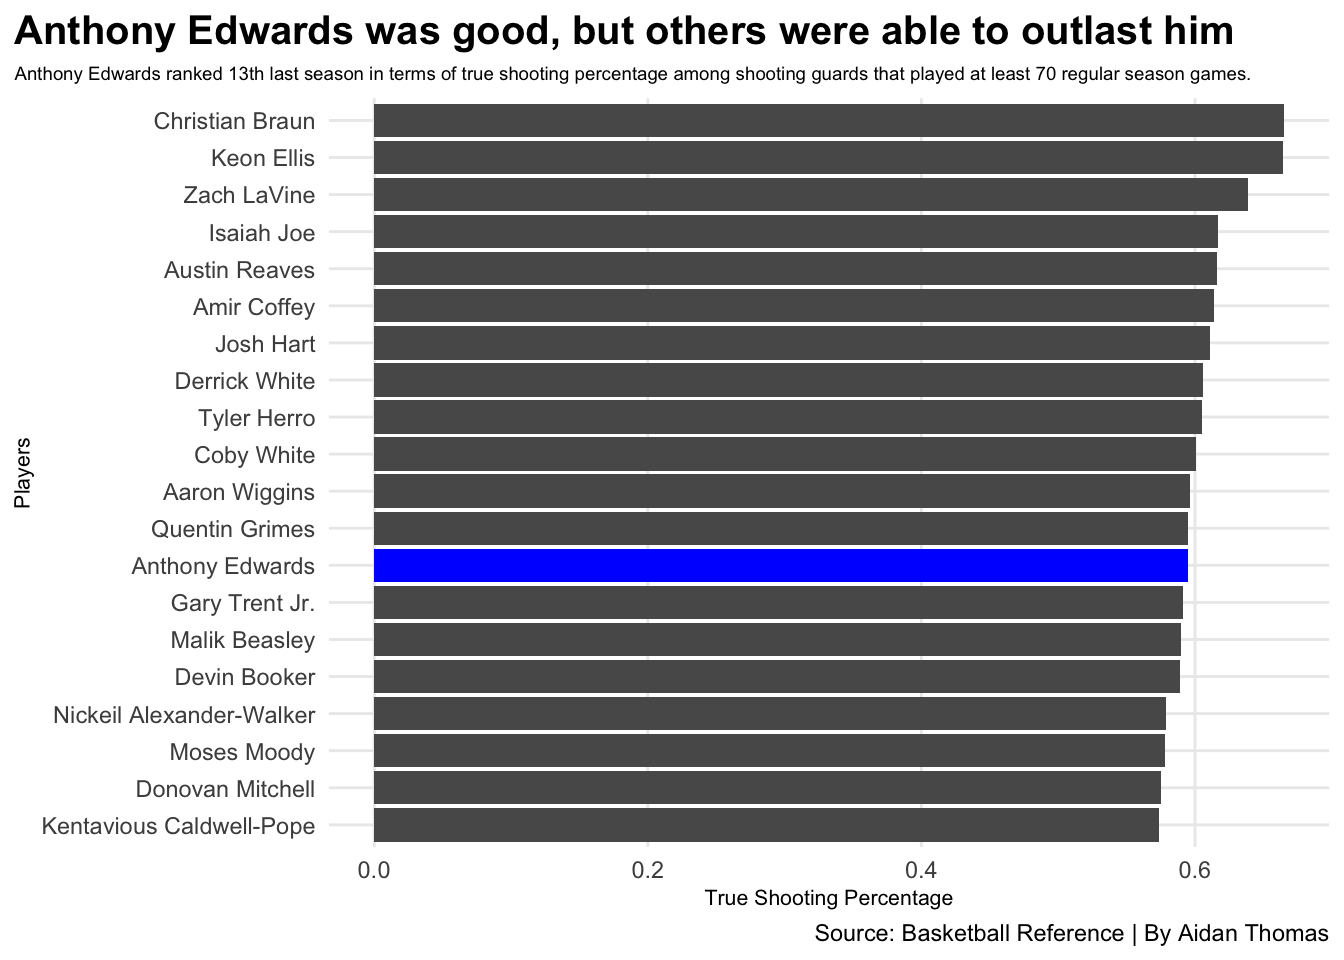
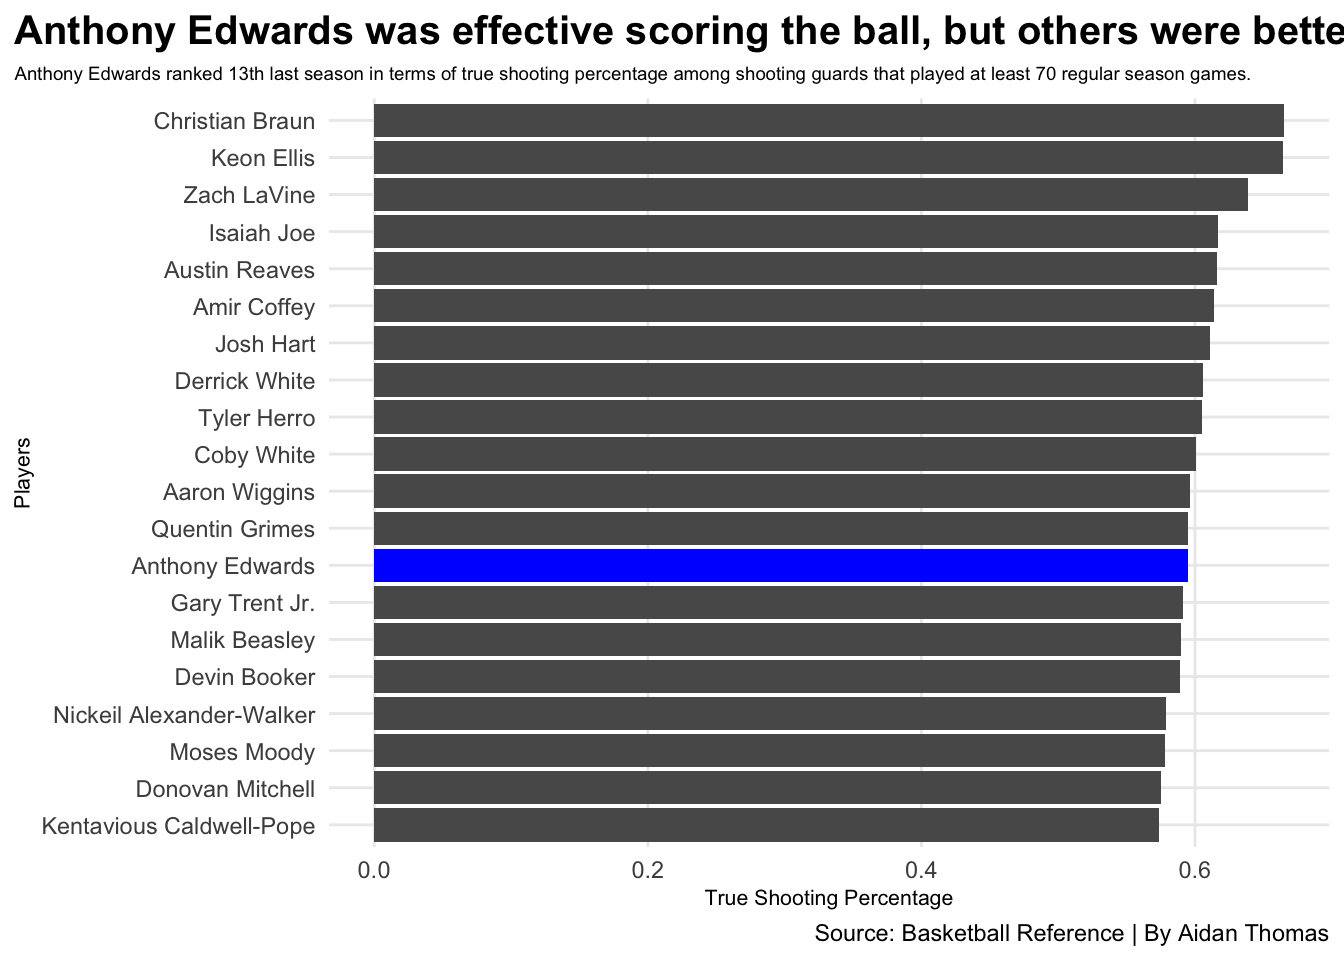
edits

Changed region(s): [[0.3438, 0.0, 1.0, 0.0625]]

diff --git a/posts/is-anthony-edwards-a-good-shooter/index.html b/posts/is-anthony-edwards-a-good-shooter/index.html
@@ -197,7 +197,7 @@ pre > code.sourceCode > span > a:first-child::before { text-decoration: underlin
 
 
 
-<p>Anthony Edwards has emerged as one of the NBA’s most electrifying young stars, captivating audiences with his explosive athleticism and fearless shot-making. But beneath the highlight-reel dunks and clutch performances lies a question that deserves closer examination: Is his shooting actually as elite as the narrative suggests?</p>
+<p>Anthony Edwards has emerged as one of the NBA’s most electrifying young stars, captivating audiences with his explosive athleticism and fearless shot making. But beneath the highlight reel dunks and clutch performances lies a question that deserves closer examination: Is his shooting actually as elite as the narrative suggests?</p>
 <div class="cell">
 <details class="code-fold">
 <summary>Code</summary>
@@ -224,7 +224,7 @@ pre > code.sourceCode > span > a:first-child::before { text-decoration: underlin
 <span id="cb1-21"><a href="#cb1-21" aria-hidden="true" tabindex="-1"></a>  <span class="fu">labs</span>(</span>
 <span id="cb1-22"><a href="#cb1-22" aria-hidden="true" tabindex="-1"></a>    <span class="at">x=</span><span class="st">"Players"</span>, </span>
 <span id="cb1-23"><a href="#cb1-23" aria-hidden="true" tabindex="-1"></a>    <span class="at">y=</span><span class="st">"True Shooting Percentage"</span>, </span>
-<span id="cb1-24"><a href="#cb1-24" aria-hidden="true" tabindex="-1"></a>    <span class="at">title=</span><span class="st">"Anthony Edwards was good, but others were able to outlast him"</span>, </span>
+<span id="cb1-24"><a href="#cb1-24" aria-hidden="true" tabindex="-1"></a>    <span class="at">title=</span><span class="st">"Anthony Edwards was effective scoring the ball, but others were better"</span>, </span>
 <span id="cb1-25"><a href="#cb1-25" aria-hidden="true" tabindex="-1"></a>    <span class="at">subtitle=</span><span class="st">"Anthony Edwards ranked 13th last season in terms of true shooting percentage among shooting guards that played at least 70 regular season games."</span>, </span>
 <span id="cb1-26"><a href="#cb1-26" aria-hidden="true" tabindex="-1"></a>    <span class="at">caption=</span><span class="st">"Source: Basketball Reference | By Aidan Thomas"</span></span>
 <span id="cb1-27"><a href="#cb1-27" aria-hidden="true" tabindex="-1"></a>    ) <span class="sc">+</span></span>
@@ -245,9 +245,9 @@ pre > code.sourceCode > span > a:first-child::before { text-decoration: underlin
 </div>
 </div>
 </div>
-<p>When we compare Edwards’ true shooting percentage to other elite young scorers in similar roles, a surprising pattern emerges. Despite carrying comparable offensive loads, Edwards ranked surprisingly low last season (13th out of the top 20 shooting guards in terms of true shooting percentage).</p>
-<p>What makes this gap particularly noteworthy is that Edwards often takes similarly difficult shots compared to his counterparts on this list. He creates off the dribble, attacks closeouts, and launches deep threes with defenders draped on him. The problem isn’t shot difficulty, it’s conversion rate. While players like Zach Lavine and Tyler Herro have refined their games to balance volume with accuracy, Edwards hasn’t yet found that equilibrium. He’s certainly a good scorer, but the numbers suggest he’s not yet operating at the truly elite efficiency level we might assume from watching his highlights.</p>
-<p>Perhaps the most telling story comes from tracking Edwards’ development over his career. Has he been steadily improving his efficiency, or has his reputation as a “superstar shooter” been built primarily on increased volume rather than refined accuracy?</p>
+<p>When we compare Edwards’ true shooting percentage (a basketball statistic that measures scoring efficiency by accounting for two-point field goals, three-point field goals, and free throws), to other shooting guards in similar roles, a surprising pattern emerges. Despite carrying comparable offensive loads, Edwards ranked surprisingly low last season (13th out of the top 20 shooting guards in terms of true shooting percentage).</p>
+<p>What makes this gap particularly noteworthy is that Edwards often takes similarly difficult shots compared to his counterparts on this list. He creates off the dribble, attacks the basket, and launches deep threes with defenders draped on him. The problem isn’t shot difficulty, it’s conversion rate. He’s certainly a good scorer, but the numbers suggest he’s not yet operating at the truly elite efficiency level we might assume from watching his game.</p>
+<p>Perhaps the most telling story comes from tracking Edwards’ development over his career. Has he been steadily improving his efficiency, or has his reputation as a “superstar” been built primarily on increased volume rather than refined accuracy?</p>
 <div class="cell">
 <details class="code-fold">
 <summary>Code</summary>
@@ -300,7 +300,7 @@ pre > code.sourceCode > span > a:first-child::before { text-decoration: underlin
 <span id="cb2-47"><a href="#cb2-47" aria-hidden="true" tabindex="-1"></a>    <span class="at">x=</span><span class="st">"Season"</span>, </span>
 <span id="cb2-48"><a href="#cb2-48" aria-hidden="true" tabindex="-1"></a>    <span class="at">y=</span><span class="st">"Effective Field Goal Percentage"</span>, </span>
 <span id="cb2-49"><a href="#cb2-49" aria-hidden="true" tabindex="-1"></a>    <span class="at">title=</span><span class="st">"Anthony Edwards is not as efficient as other elite shooting guards"</span>, </span>
-<span id="cb2-50"><a href="#cb2-50" aria-hidden="true" tabindex="-1"></a>    <span class="at">subtitle=</span><span class="st">"Anthony Edwards has struggled to shoot the ball efficiently in his career, staying below the league average until last year"</span>, </span>
+<span id="cb2-50"><a href="#cb2-50" aria-hidden="true" tabindex="-1"></a>    <span class="at">subtitle=</span><span class="st">"Anthony Edwards has struggled to shoot the ball efficiently in his career, staying below the league average up until last season."</span>, </span>
 <span id="cb2-51"><a href="#cb2-51" aria-hidden="true" tabindex="-1"></a>    <span class="at">caption=</span><span class="st">"Source: Basketball Reference | By Aidan Thomas"</span></span>
 <span id="cb2-52"><a href="#cb2-52" aria-hidden="true" tabindex="-1"></a>    ) <span class="sc">+</span></span>
 <span id="cb2-53"><a href="#cb2-53" aria-hidden="true" tabindex="-1"></a>  <span class="fu">theme_minimal</span>() <span class="sc">+</span> </span>
@@ -320,9 +320,9 @@ pre > code.sourceCode > span > a:first-child::before { text-decoration: underlin
 </div>
 </div>
 </div>
-<p>The league average for effective field goal percentage (a basketball statistic that adjusts for the value of 3-point shots to give a more accurate measure of shooting efficiency than traditional field goal percentage) over the last five seasons has consistently been around 53-54%. Edwards was routinely below this mark for the majority of his career up until last year.</p>
-<p>Notable names like Jalen Bruson, Shai Gilgeous-Alexander, Zach Lavine, and Donovan Mitchell have easily been above league average for the majority of their careers, while Edwards has been the opposite.</p>
-<p>The narrative of Edwards as a rapidly developing superstar shooter appears premature. He’s still improving, but he’s doing so incrementally, not exponentially. The perception of elite shooting seems to be based more on his confidence, his volume, and his ability to hit difficult shots in big moments than on consistent, efficient scoring night after night.</p>
+<p>The league average for effective field goal percentage (a basketball statistic that adjusts for the value of 3-point shots to give a more accurate measure of shooting efficiency than traditional field goal percentage) over the last five seasons has consistently been around 53-54%. Edwards has been routinely below this mark for the majority of his career up until last season.</p>
+<p>Notable names like Jalen Brunson, Shai Gilgeous-Alexander, Zach Lavine, and Donovan Mitchell have easily been above league average for the majority of their careers, while Edwards has been the opposite.</p>
+<p>The narrative of Edwards as a rapidly developing shooter appears premature. He’s still improving, but he’s doing so incrementally, not exponentially. The perception of elite shooting seems to be based more on his confidence, his volume, and his ability to hit difficult shots in big moments than on consistent, efficient scoring night after night.</p>
 <p>The final piece of the puzzle comes from examining where Edwards takes his shots and how efficiently he converts from each zone compared to league averages.</p>
 <div class="cell">
 <details class="code-fold">
@@ -381,7 +381,7 @@ pre > code.sourceCode > span > a:first-child::before { text-decoration: underlin
 <span id="cb3-52"><a href="#cb3-52" aria-hidden="true" tabindex="-1"></a>    <span class="at">x=</span><span class="st">"Anthony Edwards/Teams"</span>, </span>
 <span id="cb3-53"><a href="#cb3-53" aria-hidden="true" tabindex="-1"></a>    <span class="at">y=</span><span class="st">"Zone Percentage"</span>, </span>
 <span id="cb3-54"><a href="#cb3-54" aria-hidden="true" tabindex="-1"></a>    <span class="at">title=</span><span class="st">"Anthony Edwards is below average in terms of percentage from certain zones on the court"</span>, </span>
-<span id="cb3-55"><a href="#cb3-55" aria-hidden="true" tabindex="-1"></a>    <span class="at">subtitle=</span><span class="st">"He is around average when getting to the rim, but struggles once he gets 16+ feet away"</span>, </span>
+<span id="cb3-55"><a href="#cb3-55" aria-hidden="true" tabindex="-1"></a>    <span class="at">subtitle=</span><span class="st">"He is around average when getting to the rim, but struggles once he gets 16+ feet away."</span>, </span>
 <span id="cb3-56"><a href="#cb3-56" aria-hidden="true" tabindex="-1"></a>    <span class="at">caption=</span><span class="st">"Source: Basketball Reference | By Aidan Thomas"</span></span>
 <span id="cb3-57"><a href="#cb3-57" aria-hidden="true" tabindex="-1"></a>    ) <span class="sc">+</span></span>
 <span id="cb3-58"><a href="#cb3-58" aria-hidden="true" tabindex="-1"></a>  <span class="fu">theme_minimal</span>() <span class="sc">+</span> </span>
@@ -401,11 +401,11 @@ pre > code.sourceCode > span > a:first-child::before { text-decoration: underlin
 </div>
 </div>
 </div>
-<p>When it comes to getting to the rim and shooting close range, Edwards is right around average comapred to the percentage of most teams players combined from last season. Quite impressive.</p>
+<p>When it comes to getting to the rim and shooting close range, Edwards is right around average compared to the percentage of each teams players combined from last season. Quite impressive.</p>
 <p>Where it really starts to show is when Edwards gets to 16+ feet away from the basket. His averages compared to the league at large are nowhere near each other.</p>
-<p>This shot chart tells us that Edwards hasn’t yet mastered the modern scorer’s calculus: maximizing attempts from high-value zones while minimizing volume from low-efficiency areas. He plays with a scorer’s mentality but hasn’t yet developed a scorer’s spatial intelligence. The result is a player who looks like an elite shooter because he makes difficult shots, but whose overall efficiency suffers because he takes too many difficult shots in the first place.</p>
-<p>Anthony Edwards is undeniably a star. His confidence, his clutch gene, and his ability to create something from nothing make him one of the league’s most exciting players. But when we separate perception from reality, the data suggests his shooting isn’t yet at the elite level the narrative implies.</p>
-<p>None of this diminishes Edwards’ impact or potential. At just 24 years old, he has plenty of time to refine his game. The question is whether he’ll develop the efficiency and shot selection discipline to match his already-elite volume and reputation.</p>
+<p>The result is a paradox: Edwards looks like a complete offensive weapon because he attempts shots from everywhere, but the numbers show he’d be more effective concentrating his firepower closer to the rim.</p>
+<p>In conclusion, Anthony Edwards is undeniably a star. His confidence, his clutch gene, and his ability to create something from nothing make him one of the league’s most exciting players. But when we separate perception from reality, the data suggests his shooting isn’t yet at the elite level the narrative implies.</p>
+<p>None of this diminishes Edwards’ impact or potential. At just 24 years old, he has plenty of time to refine his game. The question is whether he’ll develop the efficiency and shot selection discipline to match his already elite volume and reputation.</p>
 
 
 

diff --git a/index.html b/index.html
@@ -209,7 +209,7 @@ window.Quarto = {
 
 <div class="quarto-listing quarto-listing-container-default" id="listing-listing">
 <div class="list quarto-listing-default">
[2 lines of base64/hex data omitted]
 <div class="thumbnail"><a href="./posts/is-anthony-edwards-a-good-shooter/index.html" class="no-external">
 
 <img loading="lazy" src="./posts/is-anthony-edwards-a-good-shooter/antedwards.png" class="thumbnail-image">
@@ -233,7 +233,7 @@ window.Quarto = {
 
 </div>
 <div class="delink listing-description"><a href="./posts/is-anthony-edwards-a-good-shooter/index.html" class="no-external">
-Anthony Edwards has emerged as one of the NBA’s most electrifying young stars, captivating audiences with his explosive athleticism and fearless shot-making. But beneath the…
+Anthony Edwards has emerged as one of the NBA’s most electrifying young stars, captivating audiences with his explosive athleticism and fearless shot making. But beneath the…
 </a></div>
 </div>
 <div class="metadata">
